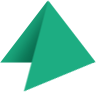
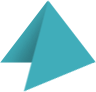
blue is on the rocks!!

diff --git a/Content/Sass/app.css b/Content/Sass/app.css
@@ -826,7 +826,7 @@ select {
 
 /* line 36, Base/_typography.scss */
 a {
-  color: #1dad82;
+  color: #40b0c1;
   text-decoration: underline;
   outline: 1px dotted transparent;
 }
@@ -836,15 +836,15 @@ a:link, a:hover, a:visited {
 }
 /* line 47, Base/_typography.scss */
 a:hover {
-  color: #168161;
+  color: #328e9c;
 }
 /* line 51, Base/_typography.scss */
 a:visited {
-  color: #8ad9c2;
+  color: #9cc5cb;
 }
 /* line 55, Base/_typography.scss */
 a:focus {
-  outline-color: #8ad9c2;
+  outline-color: #bed8dc;
 }
 
 /* line 63, Base/_typography.scss */
@@ -901,12 +901,11 @@ strong, b {
   display: inline-block;
   height: 44px;
   line-height: 44px;
-  background: #1dad82;
+  background: #40b0c1;
   color: white;
   text-transform: uppercase;
-  text-shadow: 1px 1px 1px rgba(0, 0, 0, 0.2);
+  text-shadow: 1px 1px 0 rgba(0, 0, 0, 0.1);
   text-decoration: none;
-  font-weight: 700;
   font-size: 14px;
   padding: 0 25px;
   -webkit-border-radius: 4px;
@@ -915,9 +914,9 @@ strong, b {
   -o-border-radius: 4px;
   border-radius: 4px;
 }
-/* line 19, Base/_buttons.scss */
+/* line 18, Base/_buttons.scss */
 .button:hover, .lightButton:hover, a.button:hover, a.lightButton:hover {
-  background: #21c392;
+  background: #53b8c7;
 }
 @media only screen and (min-width: 48em) {
   /* line 4, Base/_buttons.scss */
@@ -926,11 +925,11 @@ strong, b {
   }
 }
 
-/* line 31, Base/_buttons.scss */
+/* line 30, Base/_buttons.scss */
 .lightButton, a.lightButton {
   background: #c6ccd0;
 }
-/* line 36, Base/_buttons.scss */
+/* line 35, Base/_buttons.scss */
 .lightButton:hover, a.lightButton:hover {
   background: #b8bfc4;
 }
@@ -958,7 +957,7 @@ article h2 a:visited, article h3 a:visited {
 }
 /* line 26, Base/_article.scss */
 article h2 a:hover, article h2 a:visited:hover, article h3 a:hover, article h3 a:visited:hover {
-  color: #1dad82;
+  color: #40b0c1;
 }
 /* line 33, Base/_article.scss */
 article .button, article .lightButton, article .lightButton {
@@ -1031,7 +1030,7 @@ form input[type="text"], form input[type="email"], form input[type="url"], form 
 /* line 51, Base/_forms.scss */
 form input[type="text"]:focus, form input[type="email"]:focus, form input[type="url"]:focus, form textarea:focus {
   color: #3a3a3a;
-  border-color: #8ad9c2;
+  border-color: #bed8dc;
 }
 /* line 58, Base/_forms.scss */
 form .validation-summary-errors li {
@@ -1092,7 +1091,7 @@ body {
   font-size: 14px;
   line-height: 24px;
   color: #82878a;
-  background: #e2e5e7;
+  background: #e8eaec;
   -webkit-text-size-adjust: none;
   -ms-text-size-adjust: none;
   -ms-touch-action: double-tap-zoom;
@@ -1127,7 +1126,7 @@ img {
   background: white;
   width: 170px;
   height: 50px;
-  color: #1dad82;
+  color: #40b0c1;
   text-align: center;
   text-decoration: none;
   text-transform: uppercase;
@@ -1152,7 +1151,7 @@ img {
     width: 0;
     height: 0;
     border: solid 500px;
-    border-color: transparent #dce0e2 transparent transparent;
+    border-color: transparent #edeff0 transparent transparent;
     -webkit-transform: rotate(45deg);
     -moz-transform: rotate(45deg);
     -ms-transform: rotate(45deg);
@@ -1242,7 +1241,7 @@ img {
 }
 /* line 73, Interface/_header.scss */
 #play > nav a:hover {
-  border-bottom-color: #1dad82;
+  border-bottom-color: #40b0c1;
 }
 /* line 77, Interface/_header.scss */
 #play > nav a:focus, #play > nav a:link, #play > nav a:hover, #play > nav a:visited {
@@ -1327,12 +1326,12 @@ img {
 }
 /* line 55, Interface/_footer.scss */
 #play > footer .stories a:hover {
-  color: #1dad82;
+  color: #40b0c1;
 }
 /* line 61, Interface/_footer.scss */
 #play > footer .stories i {
   margin-right: 10px;
-  color: #1dad82;
+  color: #40b0c1;
 }
 /* line 68, Interface/_footer.scss */
 #play > footer .social {
@@ -1347,7 +1346,7 @@ img {
   width: 36px;
   height: 36px;
   line-height: 36px;
-  background: #1dad82;
+  background: #40b0c1;
   margin-left: 5px;
   color: white;
   font-size: 18px;
@@ -1426,7 +1425,7 @@ img {
 }
 /* line 25, Modules/_blog.scss */
 #blog time {
-  color: #1dad82;
+  color: #40b0c1;
   display: block;
 }
 /* line 30, Modules/_blog.scss */
@@ -1522,7 +1521,7 @@ img {
 /* line 7, Modules/_blogPost.scss */
 #blogPost > h1 {
   color: white;
-  background: #1dad82;
+  background: #40b0c1;
   line-height: 1.2;
   font-size: 16px;
   padding: 10px 20px;
@@ -1610,12 +1609,12 @@ img {
 /* line 110, Modules/_blogPost.scss */
 #blogComments h4 {
   font-size: 16px;
-  color: #1dad82;
+  color: #40b0c1;
   padding-left: 50px;
 }
 /* line 116, Modules/_blogPost.scss */
 #blogComments h4 a {
-  color: #1dad82;
+  color: #40b0c1;
   text-decoration: none;
 }
 /* line 122, Modules/_blogPost.scss */
@@ -1677,7 +1676,7 @@ img {
 #archive .year > time {
   font-size: 24px;
   margin: 30px 0 30px 40px;
-  color: #1dad82;
+  color: #40b0c1;
   display: block;
 }
 /* line 30, Modules/_archive.scss */
@@ -1696,7 +1695,7 @@ img {
 #archive .year > div time {
   width: 55px;
   height: 55px;
-  background: #1dad82;
+  background: #40b0c1;
   -webkit-border-radius: 55px 0 55px 55px;
   -moz-border-radius: 55px 0 55px 55px;
   -ms-border-radius: 55px 0 55px 55px;
@@ -1765,7 +1764,7 @@ img {
 }
 /* line 125, Modules/_archive.scss */
 #archive h3 a:hover {
-  color: #1dad82;
+  color: #40b0c1;
 }
 @media only screen and (min-width: 48em) {
   /* line 4, Modules/_archive.scss */
@@ -1852,7 +1851,7 @@ img {
   font-size: 100px;
   font-weight: 500;
   line-height: 1;
-  color: #1dad82;
+  color: #40b0c1;
   position: absolute;
   left: -20px;
   top: 60px;

diff --git a/Content/Sass/Interface/_main.scss b/Content/Sass/Interface/_main.scss
@@ -10,7 +10,7 @@ body
   font-size: 14px;
   line-height: 24px;
   color: $textColor;
-  background: $lightColor;
+  background: lighten($lightColor, 2%);
 
   -webkit-text-size-adjust: none;
   -ms-text-size-adjust: none;
@@ -82,7 +82,7 @@ img
   {
     $size: 500px;
     
-    @include css-triangle($size, darken($lightColor, 2%), right);
+    @include css-triangle($size, lighten($lightColor, 4%), right);
     @include rotate(45deg);
     position: absolute;
     top: -$size;

diff --git a/Content/Sass/Base/_buttons.scss b/Content/Sass/Base/_buttons.scss
@@ -8,9 +8,8 @@
   background: $primaryColor;
   color: white;
   text-transform: uppercase;
-  text-shadow: 1px 1px 1px rgba(black, 0.2);
+  text-shadow: 1px 1px 0 rgba(black, 0.1);
   text-decoration: none;
-  font-weight: 700;
   font-size: 14px;
   padding: 0 25px;
   @include border-radius(4px);

diff --git a/Content/Sass/Base/_typography.scss b/Content/Sass/Base/_typography.scss
@@ -49,7 +49,7 @@ a
   }
   &:visited
   {
-    color: desaturate(lighten($primaryColor, 30%), 20%);
+    color: desaturate(lighten($primaryColor, 20%), 20%);
   }
   &:focus
   {

diff --git a/Content/Sass/Config/_colors.scss b/Content/Sass/Config/_colors.scss
@@ -1,5 +1,5 @@
 
-$primaryColor: #1dad82;
+$primaryColor: #40b0c1;
 
 $darkColor: #18191a;
 
